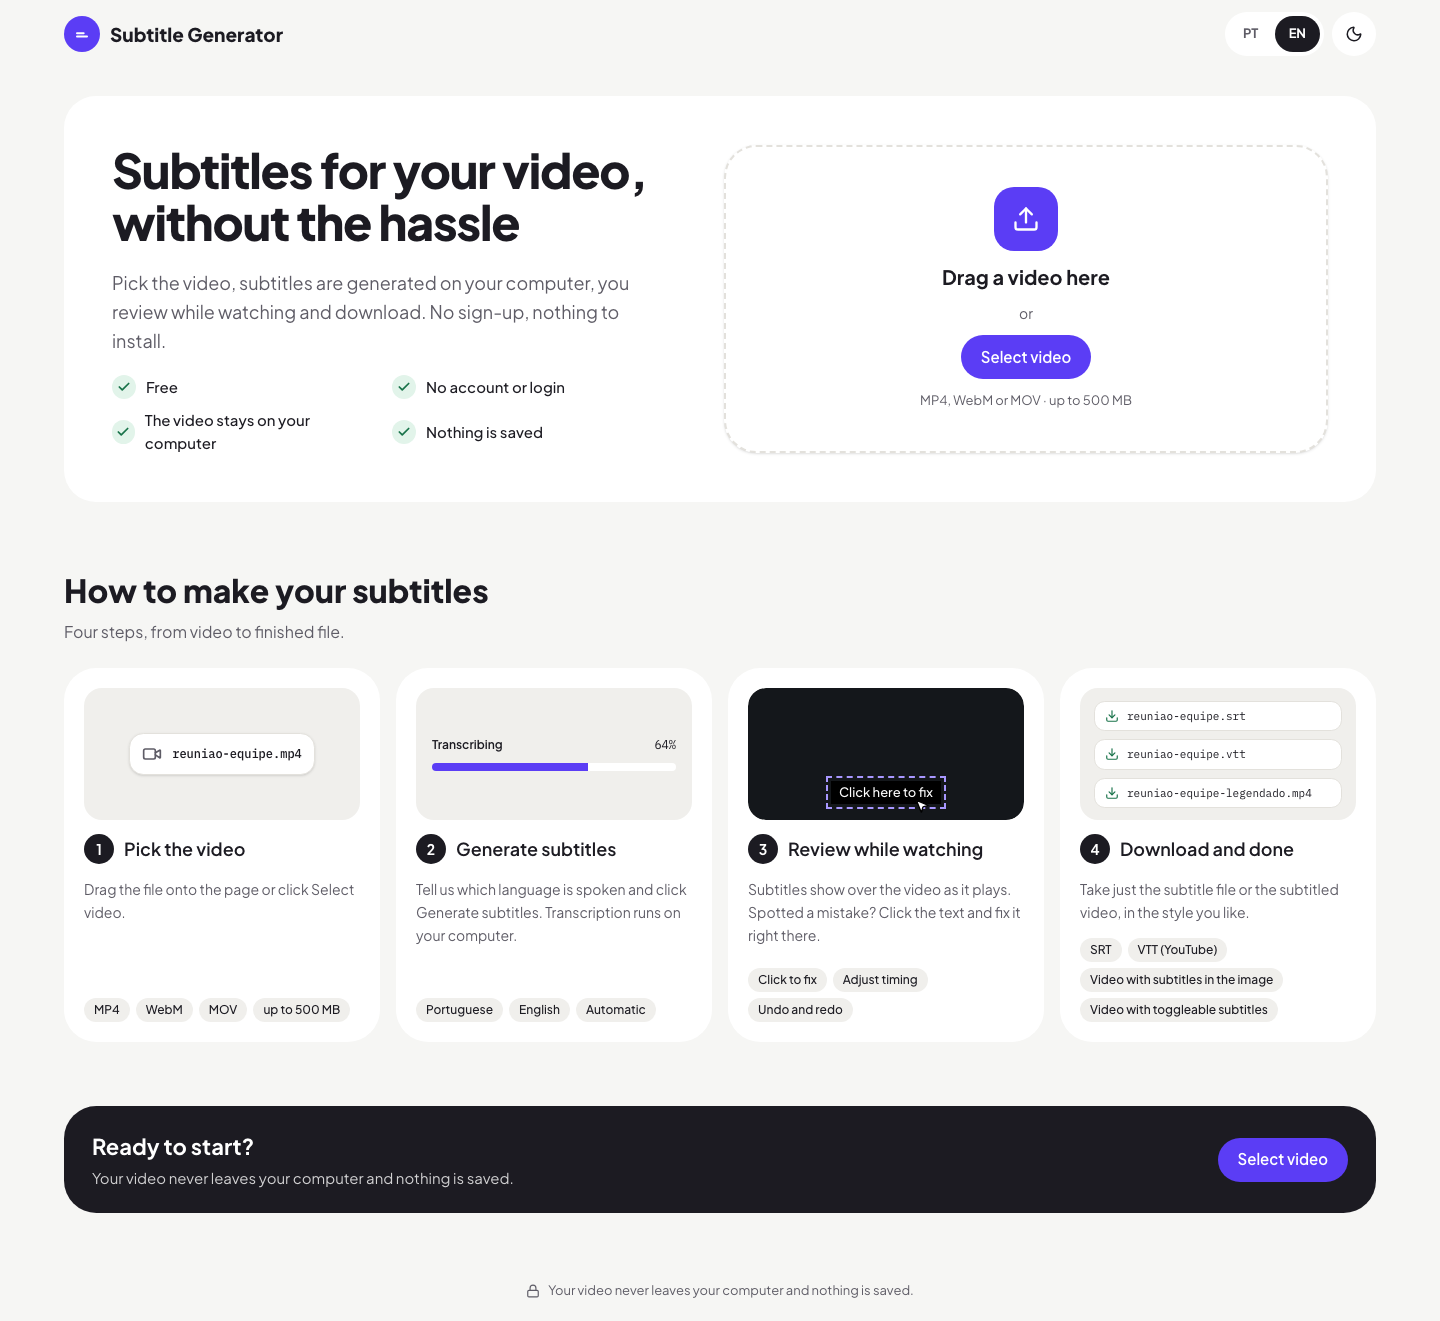
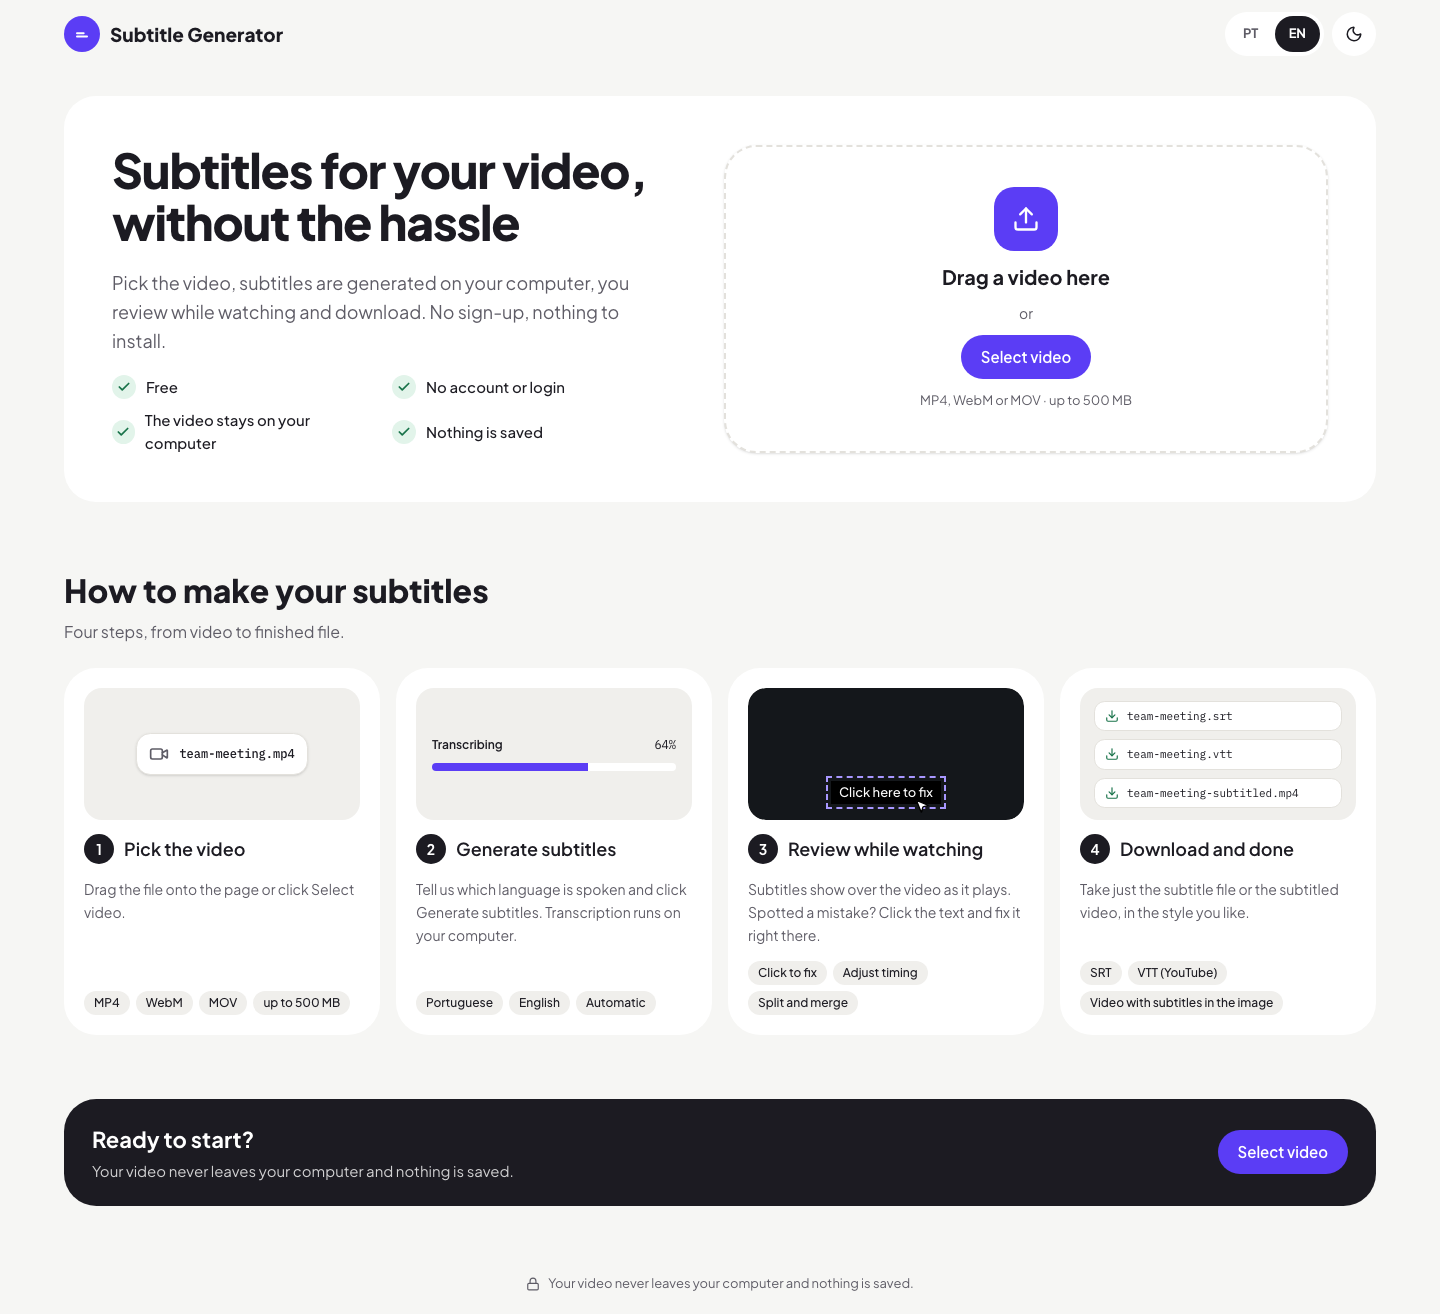
fix: nome do vídeo e exemplos da página inicial no idioma da interface
O vídeo exportado sai como <nome>-subtitled.mp4 em inglês. A página inicial
deixa de anunciar "legenda que liga e desliga" e "desfazer e refazer".
Capturas do README refeitas.

diff --git a/src/features/upload/HomePage.tsx b/src/features/upload/HomePage.tsx
@@ -21,6 +21,8 @@ function StepNumber({ n }: { n: number }) {
 
 export function HomePage() {
   const { t } = useTranslation();
+  // Nome de exemplo no idioma da interface.
+  const sample = t('how.sample');
   const scrollToUpload = () => {
     document.querySelector('[data-testid="dropzone"]')?.scrollIntoView({ behavior: 'smooth' });
     document.querySelector<HTMLButtonElement>('[data-testid="dropzone"] button')?.focus();
@@ -32,7 +34,7 @@ export function HomePage() {
       visual: (
         <div className="flex items-center gap-2.5 rounded-lg border bg-card px-3 py-2.5 shadow-sm">
           <Video aria-hidden="true" className="size-5 text-muted-foreground" />
-          <span className="font-mono text-xs font-medium">reuniao-equipe.mp4</span>
+          <span className="font-mono text-xs font-medium">{sample}.mp4</span>
         </div>
       ),
       chips: ['MP4', 'WebM', 'MOV', t('how.choose.limit')],
@@ -65,13 +67,13 @@ export function HomePage() {
           />
         </div>
       ),
-      chips: [t('how.review.click'), t('how.review.timeline'), t('how.review.undo')],
+      chips: [t('how.review.click'), t('how.review.timeline'), t('how.review.split')],
     },
     {
       id: 'download',
       visual: (
         <ul className="flex w-full flex-col gap-2 px-3.5">
-          {['reuniao-equipe.srt', 'reuniao-equipe.vtt', 'reuniao-equipe-legendado.mp4'].map(
+          {[`${sample}.srt`, `${sample}.vtt`, `${sample}-${t('export.video.suffix')}.mp4`].map(
             (name) => (
               <li
                 key={name}
@@ -84,7 +86,7 @@ export function HomePage() {
           )}
         </ul>
       ),
-      chips: ['SRT', t('how.download.vtt'), t('how.download.burn'), t('how.download.soft')],
+      chips: ['SRT', t('how.download.vtt'), t('how.download.burn')],
     },
   ] as const;
 

diff --git a/src/features/export/VideoExport.test.tsx b/src/features/export/VideoExport.test.tsx
@@ -2,10 +2,11 @@ import { act, screen, waitFor, within } from '@testing-library/react';
 import userEvent from '@testing-library/user-event';
 import { afterEach, beforeEach, describe, expect, it, vi } from 'vitest';
 
+import { i18n } from '@/i18n';
 import type { BurnInInput, ExportProgress, VideoExporter } from '@/lib/media/videoExport';
 import { useSession } from '@/lib/session/store';
 import { renderRoute } from '@/test/renderRoute';
-import { seedSession } from '@/test/session';
+import { fakeCues, fakeVideo, seedSession } from '@/test/session';
 
 import { remainingSeconds } from './useVideoExport';
 
@@ -93,6 +94,21 @@ describe('Requirement: Opção de vídeo com legenda', () => {
     expect(screen.getByRole('button', { name: 'Gerar vídeo' })).toBeEnabled();
     // A opção de só legenda continua disponível.
     expect(screen.getByRole('radio', { name: /Somente legenda/ })).toBeInTheDocument();
+  });
+});
+
+describe('Requirement: Opção de vídeo com legenda', () => {
+  it('Scenario: Nome em inglês', async () => {
+    seedSession({ cues: true });
+    useSession.getState().setVideo(fakeVideo({ name: 'meeting', fileName: 'meeting.mp4' }));
+    useSession.getState().setCues(fakeCues());
+    await act(async () => {
+      await i18n.changeLanguage('en');
+    });
+    renderRoute('/export');
+    await screen.findByRole('heading', { name: 'Download' });
+    await userEvent.click(screen.getByRole('radio', { name: /Video with subtitles/ }));
+    expect(screen.getByTestId('video-file-name')).toHaveTextContent('meeting-subtitled.mp4');
   });
 });
 

diff --git a/src/features/upload/upload-flow.test.tsx b/src/features/upload/upload-flow.test.tsx
@@ -1,7 +1,8 @@
-import { fireEvent, screen, waitFor, within } from '@testing-library/react';
+import { act, fireEvent, screen, waitFor, within } from '@testing-library/react';
 import userEvent from '@testing-library/user-event';
 import { beforeEach, describe, expect, it, vi } from 'vitest';
 
+import { i18n } from '@/i18n';
 import { useSession } from '@/lib/session/store';
 import { renderRoute } from '@/test/renderRoute';
 
@@ -42,6 +43,30 @@ describe('Requirement: Página inicial explica o uso', () => {
       'Revise assistindo',
       'Baixe e pronto',
     ]);
+  });
+
+  it('Scenario: Só opções que existem', async () => {
+    renderRoute('/');
+    const how = await screen.findByRole('region', { name: 'Como fazer sua legenda' });
+    expect(how).not.toHaveTextContent(/Desfazer e refazer/);
+    expect(how).not.toHaveTextContent(/liga e desliga/);
+  });
+
+  it('Scenario: Exemplos no idioma da interface', async () => {
+    await act(async () => {
+      await i18n.changeLanguage('en');
+    });
+    renderRoute('/');
+    const how = await screen.findByRole('region', { name: 'How to make your subtitles' });
+    for (const name of [
+      'team-meeting.mp4',
+      'team-meeting.srt',
+      'team-meeting.vtt',
+      'team-meeting-subtitled.mp4',
+    ]) {
+      expect(within(how).getByText(name)).toBeInTheDocument();
+    }
+    expect(how).not.toHaveTextContent(/reuniao/);
   });
 });
 

diff --git a/src/features/export/VideoExportPanel.tsx b/src/features/export/VideoExportPanel.tsx
@@ -85,7 +85,7 @@ export function VideoExportPanel({ blocked, onRunningChange }: VideoExportPanelP
   const video = useSession((s) => s.video);
   const { state, start, cancel, isRunning } = useVideoExport();
   const running = state.status === 'running';
-  const fileName = `${video?.name ?? 'video'}-legendado.mp4`;
+  const fileName = `${video?.name ?? 'video'}-${t('export.video.suffix')}.mp4`;
 
   // Sair durante a geração: confirma e cancela.
   const blocker = useBlocker({

diff --git a/openspec/specs/video-upload/spec.md b/openspec/specs/video-upload/spec.md
@@ -6,11 +6,19 @@ Define a página inicial e como o vídeo entra no app: como o usuário escolhe o
 ## Requirements
 
 ### Requirement: Página inicial explica o uso
-A página inicial SHALL apresentar um título, os benefícios (grátis, sem conta, o vídeo fica no computador, nada fica salvo) e o passo a passo em 4 etapas (escolher o vídeo, gerar a legenda, revisar assistindo, baixar) com as opções disponíveis em cada uma.
+A página inicial SHALL apresentar um título, os benefícios (grátis, sem conta, o vídeo fica no computador, nada fica salvo) e o passo a passo em 4 etapas (escolher o vídeo, gerar a legenda, revisar assistindo, baixar) com as opções disponíveis em cada uma; ela MUST NOT anunciar opções que o app não oferece, e os nomes de arquivo de exemplo MUST seguir o idioma da interface.
 
 #### Scenario: Passo a passo visível
 - **WHEN** a página inicial é aberta
 - **THEN** ela mostra os 4 passos na ordem: escolher o vídeo, gerar a legenda, revisar assistindo e baixar
+
+#### Scenario: Só opções que existem
+- **WHEN** a página inicial é aberta
+- **THEN** ela não menciona "Desfazer e refazer" nem "legenda que liga e desliga"
+
+#### Scenario: Exemplos no idioma da interface
+- **WHEN** a interface está em inglês e a página inicial é aberta
+- **THEN** os nomes de exemplo são `team-meeting.mp4`, `team-meeting.srt`, `team-meeting.vtt` e `team-meeting-subtitled.mp4`
 
 ### Requirement: Seleção do arquivo
 O usuário SHALL poder escolher o vídeo pelo botão "Selecionar vídeo" ou arrastando o arquivo para a área de upload.

diff --git a/openspec/specs/video-export/spec.md b/openspec/specs/video-export/spec.md
@@ -6,11 +6,15 @@ Define a exportação do vídeo com a legenda gravada na imagem, gerada no próp
 ## Requirements
 
 ### Requirement: Opção de vídeo com legenda
-A tela de exportação SHALL oferecer "Vídeo com legenda" ao lado de "Somente legenda"; escolhida, ela MUST mostrar o painel de estilo, uma prévia num quadro do vídeo, o nome do arquivo `<nome do vídeo>-legendado.mp4` e o botão "Gerar vídeo".
+A tela de exportação SHALL oferecer "Vídeo com legenda" ao lado de "Somente legenda"; escolhida, ela MUST mostrar o painel de estilo, uma prévia num quadro do vídeo, o nome do arquivo `<nome do vídeo>-legendado.mp4` (em inglês, `<nome do vídeo>-subtitled.mp4`) e o botão "Gerar vídeo".
 
 #### Scenario: Escolher vídeo com legenda
 - **WHEN** o vídeo da sessão é `reuniao.mp4` e o usuário escolhe "Vídeo com legenda"
 - **THEN** a tela mostra o painel de estilo, a prévia, o nome `reuniao-legendado.mp4` e o botão "Gerar vídeo"
+
+#### Scenario: Nome em inglês
+- **WHEN** a interface está em inglês, o vídeo da sessão é `meeting.mp4` e o usuário escolhe "Video with subtitles"
+- **THEN** o nome do arquivo é `meeting-subtitled.mp4`
 
 ### Requirement: Prévia no estilo escolhido
 A prévia SHALL mostrar um quadro do vídeo no início da primeira legenda, com essa legenda desenhada no estilo atual; mudar o estilo MUST atualizar a prévia.

diff --git a/openspec/changes/archive/2026-10-19-localize-names-and-home/proposal.md b/openspec/changes/archive/2026-10-19-localize-names-and-home/proposal.md
@@ -1,0 +1,30 @@
+# Proposal
+
+## Why
+
+As capturas do README com a interface em inglês mostraram três problemas: o vídeo exportado sai como `<nome>-legendado.mp4` mesmo em inglês; a página inicial anuncia "Vídeo com legenda que liga e desliga" (descartado) e "Desfazer e refazer" (ainda não existe); e os nomes de exemplo da página inicial (`reuniao-equipe`) aparecem em português na versão em inglês.
+
+## What Changes
+
+- Sufixo do vídeo exportado no idioma da interface: `-legendado` (pt-BR) e `-subtitled` (en).
+- Página inicial: saem "legenda que liga e desliga" e "Desfazer e refazer"; entra "Divida e junte" (existe no editor). Os nomes de exemplo seguem o idioma (`reuniao-equipe` / `team-meeting`).
+- Capturas do README refeitas.
+
+### Fora do escopo
+
+- Implementar desfazer/refazer (fica para a mudança de atalhos e histórico).
+
+## Capabilities
+
+### New Capabilities
+
+Nenhuma.
+
+### Modified Capabilities
+
+- `video-export`: nome do arquivo de vídeo com sufixo no idioma da interface.
+- `video-upload`: a página inicial só lista opções que existem, com exemplos no idioma da interface.
+
+## Impact
+
+- `src/features/export/VideoExportPanel.tsx`, `src/features/upload/HomePage.tsx`, `src/i18n/locales/*.json`, testes, `docs/screenshots/*.png`.

diff --git a/openspec/changes/archive/2026-10-19-localize-names-and-home/specs/video-upload/spec.md b/openspec/changes/archive/2026-10-19-localize-names-and-home/specs/video-upload/spec.md
@@ -1,0 +1,16 @@
+## MODIFIED Requirements
+
+### Requirement: Página inicial explica o uso
+A página inicial SHALL apresentar um título, os benefícios (grátis, sem conta, o vídeo fica no computador, nada fica salvo) e o passo a passo em 4 etapas (escolher o vídeo, gerar a legenda, revisar assistindo, baixar) com as opções disponíveis em cada uma; ela MUST NOT anunciar opções que o app não oferece, e os nomes de arquivo de exemplo MUST seguir o idioma da interface.
+
+#### Scenario: Passo a passo visível
+- **WHEN** a página inicial é aberta
+- **THEN** ela mostra os 4 passos na ordem: escolher o vídeo, gerar a legenda, revisar assistindo e baixar
+
+#### Scenario: Só opções que existem
+- **WHEN** a página inicial é aberta
+- **THEN** ela não menciona "Desfazer e refazer" nem "legenda que liga e desliga"
+
+#### Scenario: Exemplos no idioma da interface
+- **WHEN** a interface está em inglês e a página inicial é aberta
+- **THEN** os nomes de exemplo são `team-meeting.mp4`, `team-meeting.srt`, `team-meeting.vtt` e `team-meeting-subtitled.mp4`

diff --git a/openspec/changes/archive/2026-10-19-localize-names-and-home/specs/video-export/spec.md b/openspec/changes/archive/2026-10-19-localize-names-and-home/specs/video-export/spec.md
@@ -1,0 +1,12 @@
+## MODIFIED Requirements
+
+### Requirement: Opção de vídeo com legenda
+A tela de exportação SHALL oferecer "Vídeo com legenda" ao lado de "Somente legenda"; escolhida, ela MUST mostrar o painel de estilo, uma prévia num quadro do vídeo, o nome do arquivo `<nome do vídeo>-legendado.mp4` (em inglês, `<nome do vídeo>-subtitled.mp4`) e o botão "Gerar vídeo".
+
+#### Scenario: Escolher vídeo com legenda
+- **WHEN** o vídeo da sessão é `reuniao.mp4` e o usuário escolhe "Vídeo com legenda"
+- **THEN** a tela mostra o painel de estilo, a prévia, o nome `reuniao-legendado.mp4` e o botão "Gerar vídeo"
+
+#### Scenario: Nome em inglês
+- **WHEN** a interface está em inglês, o vídeo da sessão é `meeting.mp4` e o usuário escolhe "Video with subtitles"
+- **THEN** o nome do arquivo é `meeting-subtitled.mp4`

diff --git a/openspec/changes/archive/2026-10-19-localize-names-and-home/tasks.md b/openspec/changes/archive/2026-10-19-localize-names-and-home/tasks.md
@@ -1,0 +1,11 @@
+# Tasks
+
+## 1. Nomes e página inicial
+
+- [x] 1.1 Sufixo do vídeo no idioma da interface; testes "Scenario: Escolher vídeo com legenda" e "Scenario: Nome em inglês".
+- [x] 1.2 Página inicial sem opções inexistentes e com exemplos no idioma; testes "Scenario: Só opções que existem" e "Scenario: Exemplos no idioma da interface".
+
+## 2. Documentação e verificação
+
+- [x] 2.1 Capturas do README refeitas.
+- [x] 2.2 `openspec validate localize-names-and-home --strict`, `npm run check`, `npm run test:tooling` e `npm run test:e2e` passando; CI verde.
